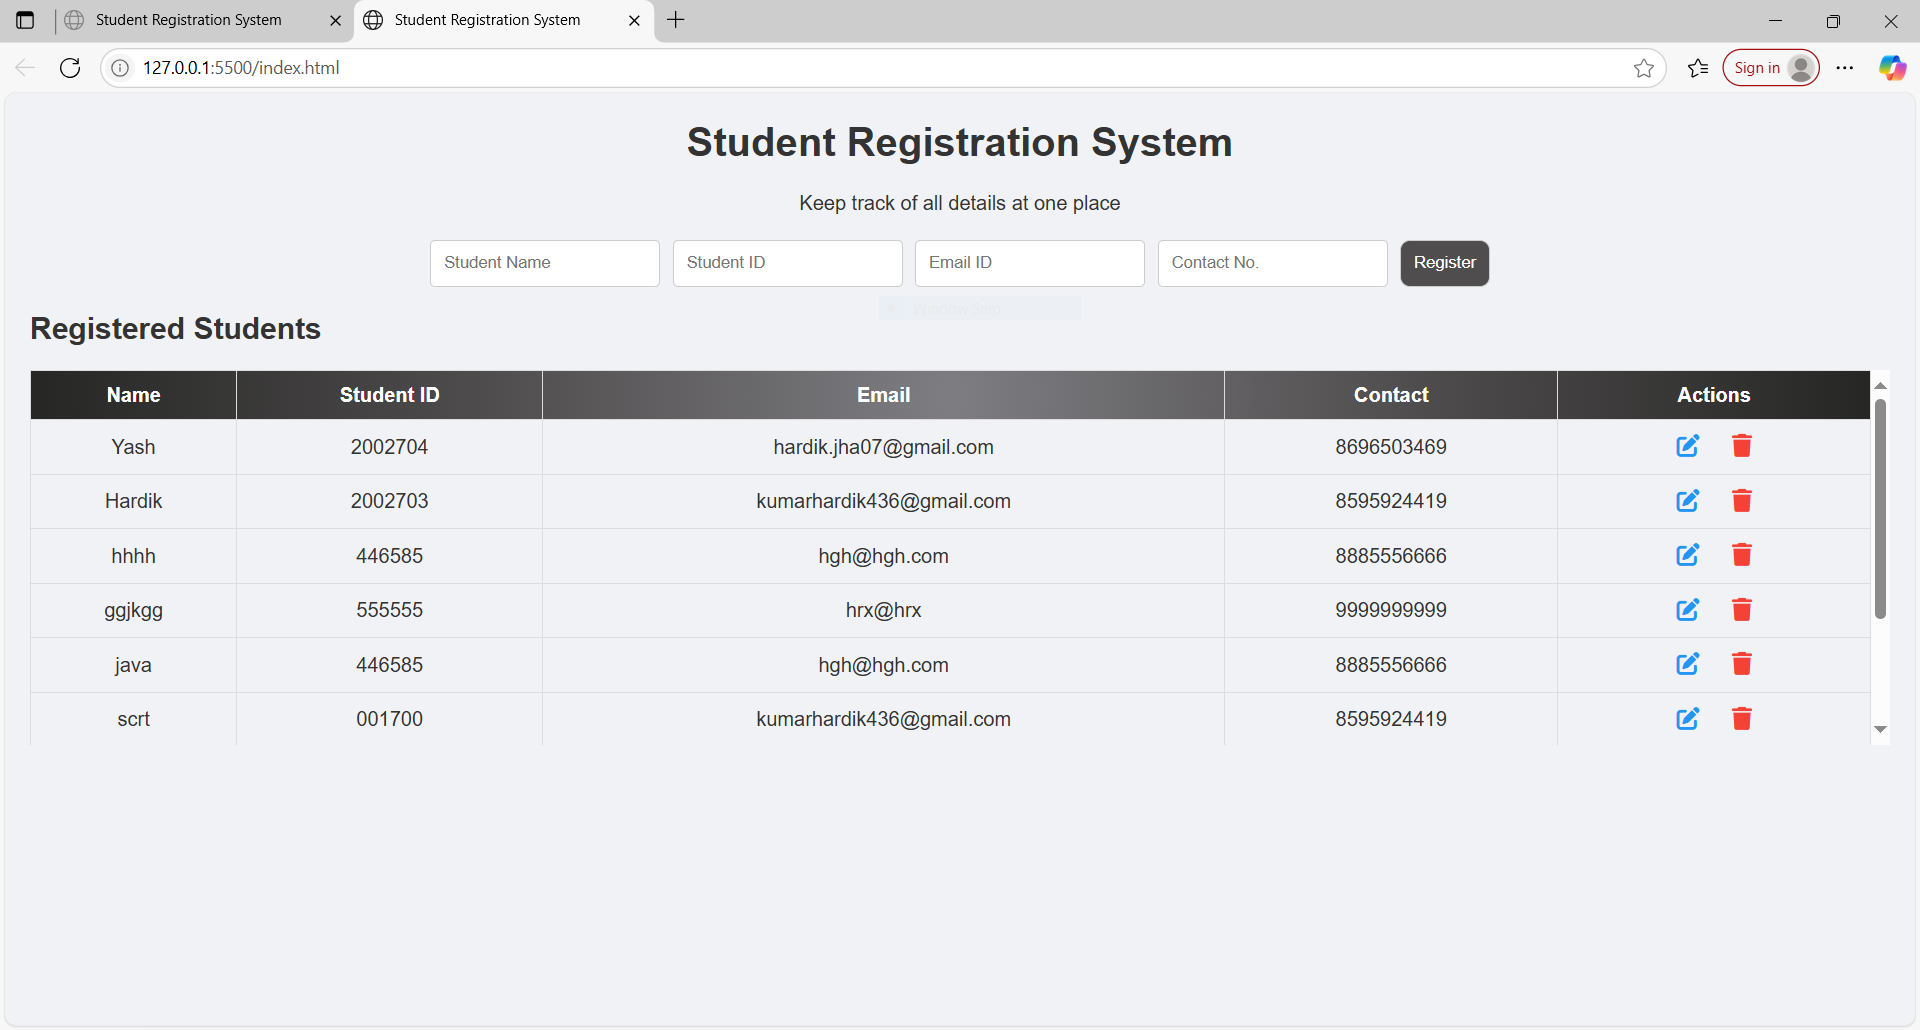
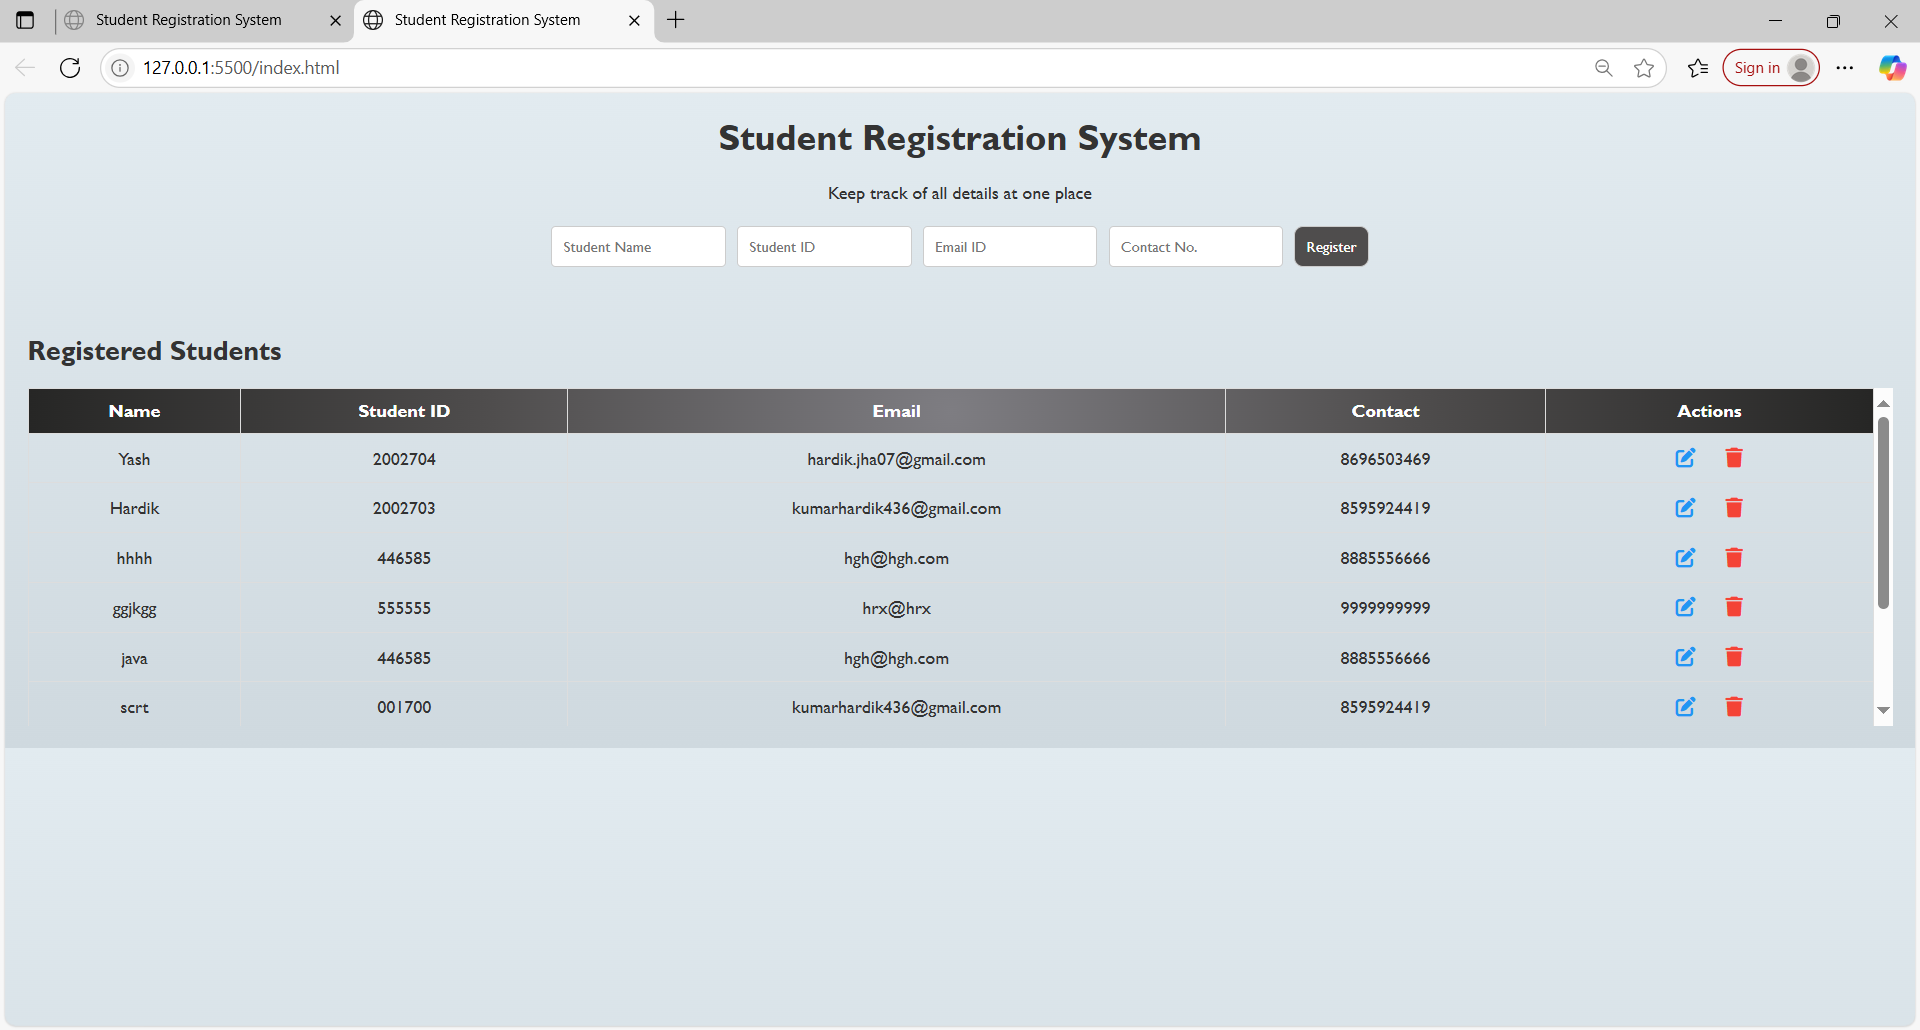
modified styling

diff --git a/style.css b/style.css
@@ -1,12 +1,13 @@
 
 *{
     box-sizing: border-box;
+    font-family: 'Gill Sans', 'Gill Sans MT', Calibri, 'Trebuchet MS', sans-serif;
 }
 
 body {
   font-family: Arial, sans-serif;
   margin: 20px;
-  background: #f0f2f5;
+  background-image: linear-gradient(to top, #cfd9df 0%, #e2ebf0 100%);
   color: #333;
 }
 
@@ -51,6 +52,9 @@ form button:hover{
   overflow-y: auto;
 }
 
+.table-section {
+  margin-top: 60px;
+}
 
 table {
   width: 100%;
